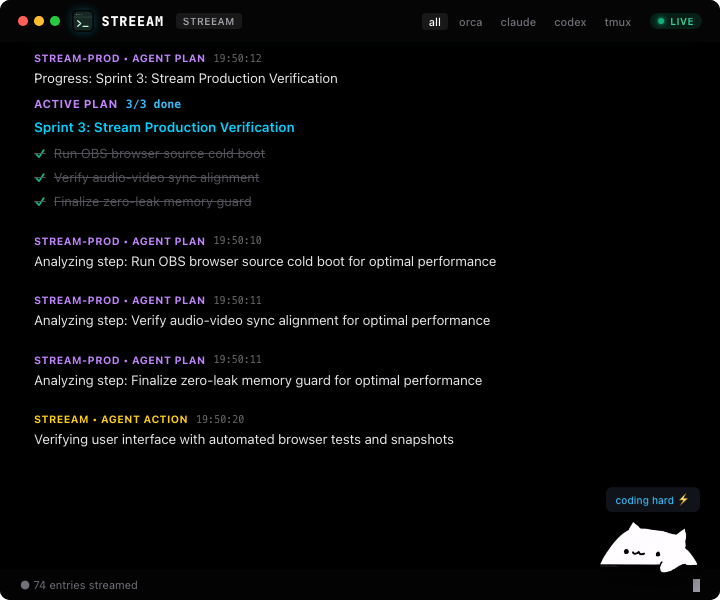
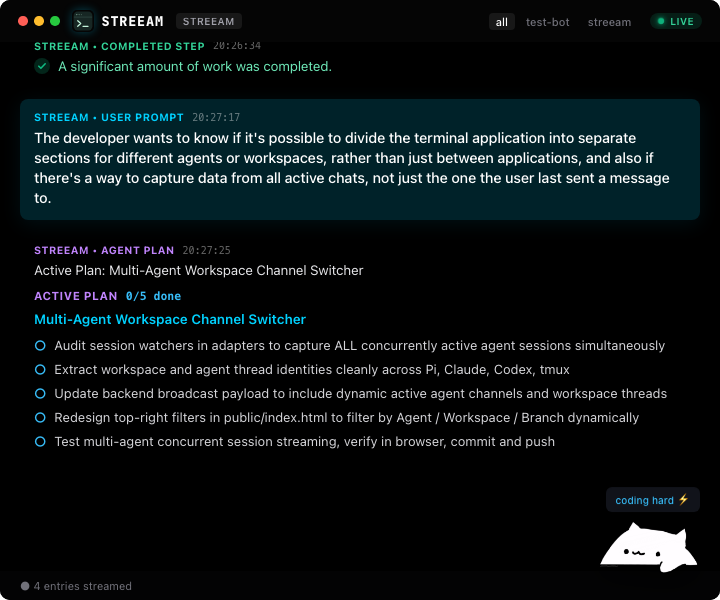
feat(ui): dynamic multi-agent workspace channel filter (all vs specific branches) and parallel concurrent session tracking

diff --git a/public/index.html b/public/index.html
@@ -478,12 +478,8 @@
                 <span class="workspace-badge" id="project-tag">ORCA DEV</span>
             </div>
             <div class="header-right">
-                <div class="source-filters">
+                <div class="source-filters" id="source-filters">
                     <button class="filter-btn active" onclick="setFilter('all')">all</button>
-                    <button class="filter-btn" onclick="setFilter('pi')">orca</button>
-                    <button class="filter-btn" onclick="setFilter('claude')">claude</button>
-                    <button class="filter-btn" onclick="setFilter('codex')">codex</button>
-                    <button class="filter-btn" onclick="setFilter('tmux')">tmux</button>
                 </div>
                 <div class="status-pill">
                     <span class="status-dot"></span>
@@ -514,6 +510,7 @@
         let rawEvents = [];
         let renderedEventIds = new Set();
         let activeFilter = 'all';
+        let availableChannels = [];
 
         // Синхронизированный статус агента с бэкенда
         let backendStatus = 'ACTIVE';
@@ -526,6 +523,7 @@
         const footerCount = document.getElementById('footer-count');
         const buddySpeech = document.getElementById('buddy-speech');
         const catImg = document.getElementById('cat-sprite-img');
+        const filterContainer = document.getElementById('source-filters');
 
         const checkSvg = `
             <svg class="check-icon" viewBox="0 0 16 16" fill="none" xmlns="http://www.w3.org/2000/svg">
@@ -534,22 +532,30 @@
             </svg>
         `;
 
-        function setFilter(source) {
-            activeFilter = source;
-            document.querySelectorAll('.filter-btn').forEach(btn => {
-                const text = btn.innerText.toLowerCase();
-                btn.classList.toggle('active', text === source || (source === 'pi' && text === 'orca'));
-            });
+        function setFilter(channel) {
+            activeFilter = channel;
+            updateFilterButtons();
             renderedEventIds.clear();
             container.innerHTML = '';
             renderEvents(true);
+        }
+
+        function updateFilterButtons() {
+            if (!filterContainer) return;
+            // Always have 'all'
+            const items = ['all', ...availableChannels];
+            
+            filterContainer.innerHTML = items.map(ch => {
+                const isActive = activeFilter.toLowerCase() === ch.toLowerCase();
+                return `<button class="filter-btn ${isActive ? 'active' : ''}" onclick="setFilter('${ch}')">${escapeHtml(ch.toLowerCase())}</button>`;
+            }).join('');
         }
 
         // Рендер БЕЗ моргания
         function renderEvents(isFilterSwitch = false) {
             const filtered = activeFilter === 'all'
                 ? rawEvents
-                : rawEvents.filter(ev => ev.source === activeFilter || (activeFilter === 'pi' && (ev.source === 'orca' || ev.source === 'pi')));
+                : rawEvents.filter(ev => (ev.project && ev.project.toLowerCase() === activeFilter.toLowerCase()) || (ev.source && ev.source.toLowerCase() === activeFilter.toLowerCase()));
 
             filtered.forEach(ev => {
                 if (renderedEventIds.has(ev.id)) {
@@ -735,6 +741,13 @@
                         backendStatus = data.status;
                         if (statusLabel) {
                             statusLabel.innerText = data.status === 'ACTIVE' ? 'LIVE' : 'IDLE';
+                        }
+                    }
+                    if (Array.isArray(data.channels)) {
+                        const newChannels = data.channels.filter(Boolean);
+                        if (JSON.stringify(newChannels) !== JSON.stringify(availableChannels)) {
+                            availableChannels = newChannels;
+                            updateFilterButtons();
                         }
                     }
                     if (Array.isArray(data.events)) {

diff --git a/adapters/pi.js b/adapters/pi.js
@@ -21,19 +21,22 @@ class PiAdapter extends BaseAdapter {
     try {
       const parentDir = path.basename(path.dirname(filePath));
       const cleaned = parentDir.replace(/^--|--$/g, '');
-      const parts = cleaned.split('-');
+      const parts = cleaned.split('-').filter(Boolean);
 
-      if (cleaned.includes('orca-workspaces')) {
+      if (cleaned.includes('workspaces')) {
         const idx = parts.indexOf('workspaces');
         if (idx !== -1 && parts[idx + 2]) {
           return parts.slice(idx + 2).join('-').toUpperCase();
         }
       }
-      if (cleaned.includes('Storello')) return 'STORELLO';
-      if (cleaned.includes('FastToChart')) return 'FASTTOCHART';
+      if (cleaned.includes('pi-ultra')) return 'PI-ULTRA';
+      if (cleaned.includes('my-landing') || cleaned.includes('landing')) return 'MY-LANDING';
       if (cleaned.includes('stream-overlay') || cleaned.includes('streeam')) return 'STREEAM';
       if (cleaned.includes('SuperWhisper')) return 'SUPERWHISPER';
-      return (parts[parts.length - 1] || 'DEV').toUpperCase();
+      if (cleaned.includes('FastToChart')) return 'FASTTOCHART';
+      if (cleaned.includes('Storello')) return 'STORELLO';
+      
+      return parts.slice(-2).join('-').replace(/ПРИЛОЖЕНИЕ-?/g, '').toUpperCase() || 'DEV';
     } catch (e) {
       return 'DEV';
     }
@@ -229,30 +232,44 @@ class PiAdapter extends BaseAdapter {
     if (!fs.existsSync(this.sessionsRoot)) return [];
     const files = [];
 
-    const walk = (dir, depth = 0) => {
-      if (depth > 4) return;
-      try {
-        const entries = fs.readdirSync(dir, { withFileTypes: true });
-        for (const entry of entries) {
-          const fullPath = path.join(dir, entry.name);
-          if (entry.isDirectory()) {
-            walk(fullPath, depth + 1);
-          } else if (entry.isFile() && entry.name.endsWith('.jsonl')) {
-            const stat = fs.statSync(fullPath);
-            files.push({
-              path: fullPath,
-              project: this.deriveProject(fullPath),
-              mtime: stat.mtimeMs,
-              size: stat.size,
-            });
-          }
-        }
-      } catch (e) {}
-    };
+    try {
+      const dirs = fs.readdirSync(this.sessionsRoot, { withFileTypes: true }).filter(d => d.isDirectory());
+      
+      dirs.forEach(d => {
+        const p = path.join(this.sessionsRoot, d.name);
+        const jsonls = [];
+        const walk = (sub, depth = 0) => {
+          if (depth > 3) return;
+          try {
+            const entries = fs.readdirSync(sub, { withFileTypes: true });
+            for (const entry of entries) {
+              const full = path.join(sub, entry.name);
+              if (entry.isDirectory()) {
+                walk(full, depth + 1);
+              } else if (entry.isFile() && entry.name.endsWith('.jsonl')) {
+                const stat = fs.statSync(full);
+                jsonls.push({
+                  path: full,
+                  project: this.deriveProject(full),
+                  mtime: stat.mtimeMs,
+                  size: stat.size,
+                });
+              }
+            }
+          } catch(e) {}
+        };
 
-    walk(this.sessionsRoot);
+        walk(p);
+        if (jsonls.length > 0) {
+          jsonls.sort((a, b) => b.mtime - a.mtime);
+          // Pick the most recent session from this workspace
+          files.push(jsonls[0]);
+        }
+      });
+    } catch (e) {}
+
     files.sort((a, b) => b.mtime - a.mtime);
-    return files.slice(0, this.maxRecentSessions);
+    return files.slice(0, 20); // Track up to 20 concurrent active workspaces/branches!
   }
 
   async backfillSession(sess) {

diff --git a/server.js b/server.js
@@ -17,10 +17,13 @@ let idleCheckTimer = null;
 const adapterManager = new AdapterManager();
 
 function broadcastPayload() {
+  const channels = Array.from(new Set(logEvents.map(e => e.project).filter(Boolean)));
+
   const payload = JSON.stringify({
     project: currentProject,
     status: currentStatus,
     events: logEvents,
+    channels,
     sources: adapterManager.getSources(),
   });
   for (const client of wss.clients) {
@@ -162,10 +165,12 @@ const server = http.createServer((req, res) => {
 const wss = new WebSocket.Server({ server, path: '/ws' });
 
 wss.on('connection', ws => {
+  const channels = Array.from(new Set(logEvents.map(e => e.project).filter(Boolean)));
   ws.send(JSON.stringify({
     project: currentProject,
     status: currentStatus,
     events: logEvents,
+    channels,
     sources: adapterManager.getSources(),
   }));
 });
